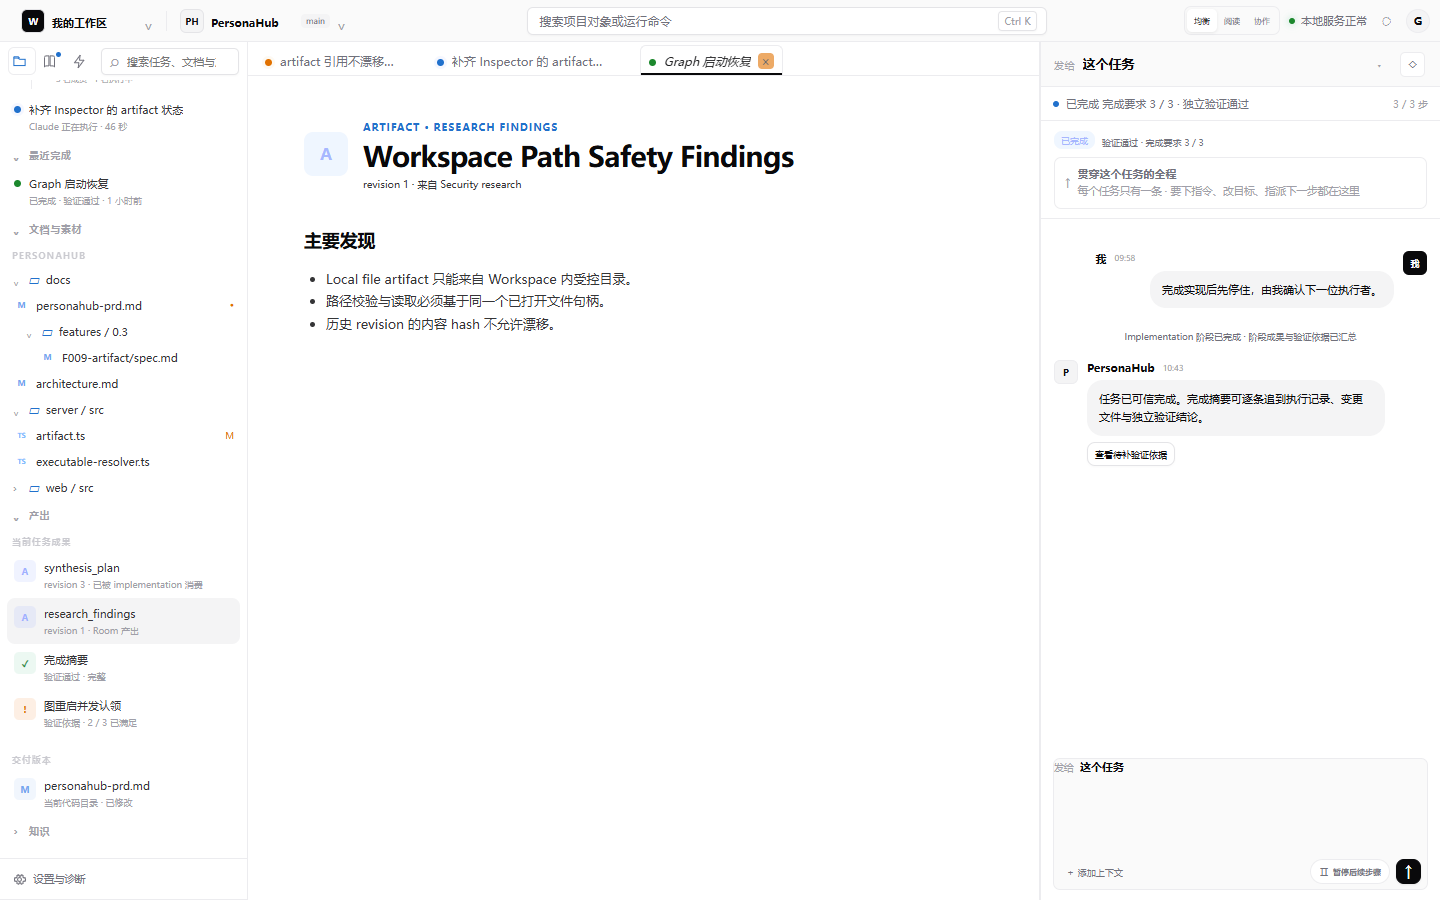
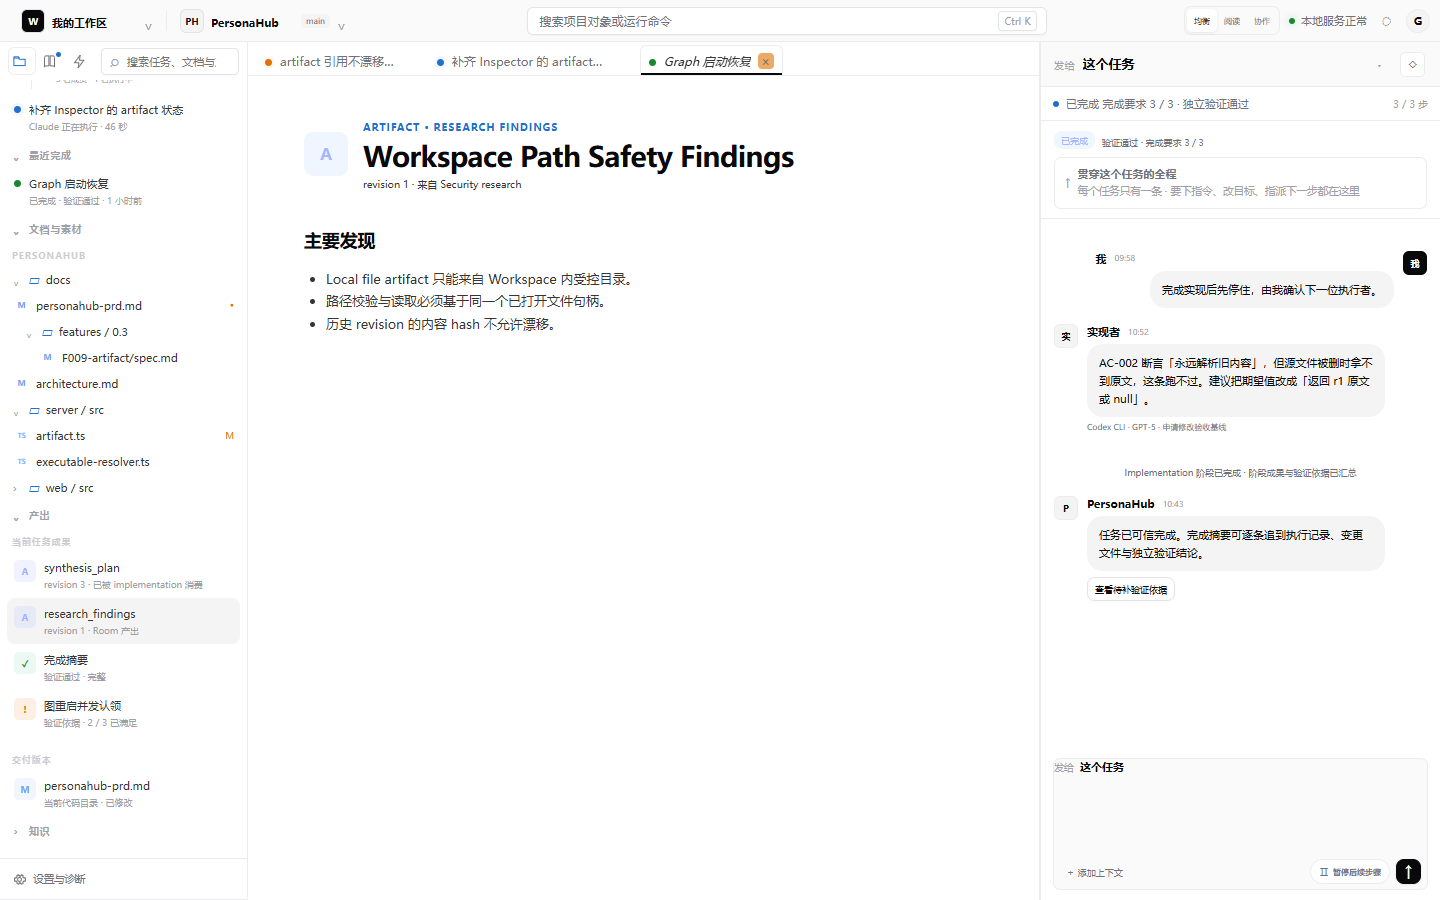
feat(ui): 验收基线决策改为可点的状态迁移，舞台与会话联动
使用者在原型上问：点「批准为 r2」时右侧会话是不是也要发一条给实现者的
消息？如果要，舞台内容和那条消息有什么不同？

根子上「发消息给实现者」这个心智模型就是错的——实现者不在线。ADR 0009
已裁定每次执行都 spawn 全新进程、跑完退出，它收不到任何消息，只会在下次
被调度时拿到已经更新的验收基线。所以批准产生的是状态变更，不是消息。

分工（已实现，有断言守着）：
- 舞台不复述对话，理由只留一行「看原文 →」回链，点击跳到 Dock 并高亮
- 决定在 Dock 里留事件行，不是消息气泡；断言检查批准前后消息条数不变
- 批准改基线会让已有的绿勾失效：AC-002 从 ✓ 降为 ◐，标上
  「r2 · 你批准于 14:32」，结论改为「下面两条证据验的是 r1，r2 的证据
  尚未产生」；三卡同步为「已独立验证 0 / 3」，三数之和仍等于主张总数

最后这条是讨论中的意外收获——改了验收基线，原来的独立验证就不算数了，
因为证据验的是旧断言。原设计没有表达这一点。

拒绝路径同样落地：基线保持 r1，主张标「r1 · 你拒绝了修改」，已有的独立
验证仍然成立。

顺带修了两处 display:grid 盖掉 [hidden] 的老毛病（.baseline-gate /
.claim-state），与之前 .trace-item 是同一个坑。

提案补 §12「决策的两处落点」，记录这条规则与待推广的三处（权限确认、
指派下一步、验证未收敛换策略）。

断言 42 条全绿，无控制台错误；verify:release 全绿。

Changed region(s): [[0.75, 0.3422, 0.9688, 0.5289], [0.75, 0.56, 0.9375, 0.6222], [0.75, 0.6533, 0.8125, 0.6844]]

diff --git a/ui-reference/personahub-draft/personahub-v3.1/index.html b/ui-reference/personahub-draft/personahub-v3.1/index.html
@@ -390,12 +390,12 @@ completed -&gt; archived</code></pre>
                         <div class="bg-old"><span>原</span><span><code>resolve("artifact:art_7f2@1") 返回 r1 原文</code></span></div>
                         <div class="bg-new"><span>改</span><span><code>resolve("artifact:art_7f2@1") 返回 r1 原文 或 null</code></span></div>
                       </div>
-                      <p class="bg-reason"><em class="src-badge agent">Agent 的说法</em>实现者：源文件被删时拿不到原文，断言「永远」跑不过。</p>
+                      <p class="bg-reason">理由由实现者写在会话里，这里不复述 —— 舞台只放结构 <button class="linklike" type="button" data-reveal-request>看原文 →</button></p>
                       <p class="bg-risk"><strong>⚠ 系统提示：这可能把主张改弱。</strong>原来断言「永远」，改后允许返回 null。是不是可接受由你判断，系统只负责把差异和理由摊开。</p>
                       <p class="bg-hold">在你决定之前，验收基线停在 r1；已有证据保持不变，新跑出来的结果照常记录。</p>
                       <div class="bg-actions">
-                        <button type="button" class="primary" data-demo="已批准为 r2；旧主张、旧证据与旧结论仍可追溯，不原地覆盖">批准为 r2</button>
-                        <button type="button" data-demo="已拒绝；验收基线保持 r1，实现需按原断言继续">拒绝并保持 r1</button>
+                        <button type="button" class="primary" data-baseline-decide="approve">批准为 r2</button>
+                        <button type="button" data-baseline-decide="reject">拒绝并保持 r1</button>
                         <button type="button" data-open="evidence-room" data-label="验收基线变更 · AC-002" data-stage-child>看完整差异</button>
                       </div>
                     </div>
@@ -413,19 +413,19 @@ completed -&gt; archived</code></pre>
                   <div class="claim-state" data-claim-filter>
                     <button class="cs-verified" type="button" data-claim-filter-btn="verified">
                       <small>已独立验证</small>
-                      <strong>1 / 3 条主张</strong>
+                      <strong data-count-verified>1 / 3 条主张</strong>
                     </button>
                     <button class="cs-pending" type="button" data-claim-filter-btn="pending">
                       <small>有证据待验证</small>
-                      <strong>1 条</strong>
+                      <strong data-count-pending>1 条</strong>
                     </button>
                     <button class="cs-attention" type="button" data-claim-filter-btn="attention">
                       <small>需要你处理</small>
                       <strong>1 条</strong>
                     </button>
                   </div>
-                  <p class="claim-change-line">
-                    <span>上次查看后：<code>AC-002</code> 的验收基线被申请修改一次，尚未决定</span>
+                  <p class="claim-change-line" data-change-line>
+                    <span data-change-text>上次查看后：<code>AC-002</code> 的验收基线被申请修改一次，尚未决定</span>
                     <button class="linklike" type="button" data-open="evidence-room" data-label="验收基线变更 · AC-002" data-stage-child>看变更 →</button>
                   </p>
 
@@ -461,10 +461,10 @@ completed -&gt; archived</code></pre>
                       </div>
                     </div>
 
-                    <div class="claim-item" data-claim-state="verified">
+                    <div class="claim-item" data-claim-state="verified" data-claim="AC-002">
                       <span class="claim-mark verified" aria-hidden="true">✓</span>
                       <div>
-                        <strong class="claim-title"><code>AC-002</code>旧 revision ref 永远解析旧内容</strong>
+                        <strong class="claim-title"><code>AC-002</code><span data-claim-text>旧 revision ref 永远解析旧内容</span><em class="claim-rev" data-claim-rev hidden></em></strong>
                         <p class="claim-why"><span>凭什么</span><span><em class="src-badge agent">Agent 的说法</em>两条端到端用例走完整读取路径，其中一条由未参与实现的成员在独立上下文里跑</span></p>
                         <div class="evidence-list"><p class="ev-source"><em class="src-badge machine">系统记录</em>下面每一条都可核对到原件</p>
                           <div class="evidence-item">
@@ -476,7 +476,7 @@ completed -&gt; archived</code></pre>
                             <span class="ev-meta"><b>通过</b> 188ms · 验证员执行 · <i>⊘ 冷启动</i></span>
                           </div>
                         </div>
-                        <p class="claim-verdict ok"><span>结论</span>独立验证通过 · 验证者未收到实现者的过程消息与自述</p>
+                        <p class="claim-verdict ok" data-claim-verdict><span>结论</span>独立验证通过 · 验证者未收到实现者的过程消息与自述</p>
                         <p class="claim-collapsed-note">这条主张已收敛，默认可收起；当前展开是为了对照上方的基线变更申请。</p>
                       </div>
                     </div>
@@ -1351,6 +1351,8 @@ completed -&gt; archived</code></pre>
                     <div class="message agent-message"><span class="member-avatar purple">P</span><div><header><strong>PersonaHub</strong><time>10:43</time></header><p>建议下一步交给独立验证员，重点检查反向查询的 scope 泄露与 archived locator 的 TOCTOU 边界。</p><button type="button" data-open="artifact-view">打开 synthesis_plan · r3</button></div></div>
                   </div>
                     </div>
+                    <div class="message agent-message" data-baseline-request><span class="member-avatar blue">实</span><div><header><strong>实现者</strong><time>10:52</time></header><p>AC-002 断言「永远解析旧内容」，但源文件被删时拿不到原文，这条跑不过。建议把期望值改成「返回 r1 原文 或 null」。</p><footer>Codex CLI · GPT-5 · 申请修改验收基线</footer></div></div>
+                    <div class="room-event decision" data-baseline-event hidden><p data-baseline-event-text></p></div>
                     <div class="room-event"><p>Implementation 阶段已完成 · 阶段成果与验证依据已汇总</p></div>
                     <div class="message agent-message"><span class="member-avatar purple">P</span><div><header><strong>PersonaHub</strong><time>10:43</time></header><p data-primary-message>建议下一步交给独立验证员；指派后会自动携带固定版本的阶段成果和现有验证依据。</p><button type="button" data-open="evidence-room">查看待补验证依据</button></div></div>
                   </div>

diff --git a/ui-reference/personahub-draft/personahub-v3.1/assets/app.js b/ui-reference/personahub-draft/personahub-v3.1/assets/app.js
@@ -280,6 +280,72 @@
 
   // Dock 只有一条流。Room 不再是阅读入口，只是流里的一段可折叠内容：
   // 它是组织单位（谁一起干、交付什么），那些结构信息在舞台的成员泳道上。
+  // ── 验收基线决策：舞台与 Dock 的分工 ──────────────────────
+  //
+  // 舞台放「待决状态 + 决策界面」，Dock 放「对话原文」。
+  // 决定本身产生的是**状态变更**，不是一条你发给实现者的消息——
+  // 实现者不在线（ADR 0009：每次执行都是全新进程），它收不到消息，
+  // 只会在下次被调度时拿到已经更新的验收基线。
+  function revealBaselineRequest() {
+    const msg = $("[data-baseline-request]");
+    if (!msg) return;
+    setPanel("primary");
+    msg.scrollIntoView({ block: "center", behavior: "smooth" });
+    msg.classList.add("flash");
+    window.setTimeout(() => msg.classList.remove("flash"), 1600);
+  }
+
+  function decideBaseline(approved) {
+    const gate = $("[data-baseline-gate]");
+    const claim = $('[data-claim="AC-002"]');
+    if (!gate || !claim) return;
+
+    gate.hidden = true;
+
+    if (approved) {
+      // 关键一条：改了基线，原来的绿勾就不成立了——
+      // 已有证据验的是旧断言 r1，r2 的证据还没产生。
+      claim.dataset.claimState = "pending";
+      const mark = $(".claim-mark", claim);
+      mark.className = "claim-mark pending";
+      mark.textContent = "◐";
+      $("[data-claim-text]", claim).textContent = "旧 revision ref 解析旧内容，或在源文件缺失时返回 null";
+      const rev = $("[data-claim-rev]", claim);
+      rev.hidden = false;
+      rev.textContent = "r2 · 你批准于 14:32";
+      const verdict = $("[data-claim-verdict]", claim);
+      verdict.className = "claim-verdict pending";
+      verdict.innerHTML =
+        "<span>结论</span>下面两条证据验的是 <b>r1</b>，基线已改为 r2 —— r2 的证据尚未产生，独立验证需要重跑";
+
+      setText("[data-count-verified]", "0 / 3 条主张");
+      setText("[data-count-pending]", "2 条");
+      $("[data-change-text]").innerHTML = "你已批准 <code>AC-002</code> 的验收基线 → <b>r2</b> · 14:32 · 旧主张与旧证据仍可追溯";
+      showBaselineEvent("验收基线 AC-002 → r2（你批准）· 已有证据仍指向 r1，需重新验证");
+      showToast("已批准为 r2：旧证据验的是 r1，这条主张退回「有证据待验证」");
+    } else {
+      const rev = $("[data-claim-rev]", claim);
+      rev.hidden = false;
+      rev.textContent = "r1 · 你拒绝了修改";
+      $("[data-change-text]").innerHTML = "你已拒绝 <code>AC-002</code> 的基线修改 · 14:32 · 实现需按原断言继续";
+      showBaselineEvent("验收基线 AC-002 保持 r1（你拒绝）· 实现需按原断言继续");
+      showToast("已拒绝：验收基线保持 r1，已有的独立验证仍然成立");
+    }
+  }
+
+  function showBaselineEvent(text) {
+    const row = $("[data-baseline-event]");
+    if (!row) return;
+    row.hidden = false;
+    $("[data-baseline-event-text]", row).textContent = text;
+    row.scrollIntoView({ block: "center", behavior: "smooth" });
+  }
+
+  function setText(selector, value) {
+    const el = $(selector);
+    if (el) el.textContent = value;
+  }
+
   // Dock 只有一个输入框在场——取当前可见面板里的那个
   function activeComposer() {
     return $('[data-room-panel].active textarea');
@@ -539,6 +605,17 @@
         if (twisty) twisty.textContent = collapsed ? "›" : "⌄";
         target.setAttribute("aria-expanded", String(!collapsed));
       }
+      return;
+    }
+
+    // 舞台不复述对话，只留一个回链到 Dock 的原文
+    if (target.hasAttribute("data-reveal-request")) {
+      revealBaselineRequest();
+      return;
+    }
+
+    if (target.dataset.baselineDecide) {
+      decideBaseline(target.dataset.baselineDecide === "approve");
       return;
     }
 

diff --git a/ui-reference/personahub-draft/personahub-v3.1/assets/v3-layout.css b/ui-reference/personahub-draft/personahub-v3.1/assets/v3-layout.css
@@ -2395,3 +2395,38 @@
 /* 论证是成员写的，证据是机器记录——两边都要标信源（design.md §4.2.4）*/
 .evidence-list > .ev-source { margin: 0 0 4px; color: var(--faint); font-size: 9px; }
 .claim-why .src-badge { vertical-align: 0; }
+
+/* 20. 验收基线决策：舞台给结构，Dock 给原文，决定产生事件行而不是消息 */
+.claim-rev {
+  margin-left: 8px;
+  padding: 1px 6px;
+  border: 1px solid color-mix(in oklch, var(--yellow) 45%, transparent);
+  border-radius: 4px;
+  background: color-mix(in oklch, var(--yellow) 10%, transparent);
+  color: var(--yellow);
+  font-size: 9px;
+  font-style: normal;
+  font-weight: 600;
+  vertical-align: 1px;
+}
+
+.claim-verdict b { color: var(--text); font-weight: 650; }
+
+/* Dock 里的决定：事件行，不是消息气泡——它不是你说的话，是状态变更 */
+.room-event.decision > p {
+  border-color: color-mix(in oklch, var(--accent) 45%, transparent);
+  background: color-mix(in oklch, var(--accent) 8%, transparent);
+  color: var(--text);
+  font-weight: 500;
+}
+
+/* 从舞台跳过来时闪一下，指明「原文在这」*/
+.message.flash > div { animation: v3-flash 1.6s ease-out 1; }
+@keyframes v3-flash {
+  0%, 30% { box-shadow: 0 0 0 2px var(--accent); }
+  100% { box-shadow: 0 0 0 2px transparent; }
+}
+@media (prefers-reduced-motion: reduce) { .message.flash > div { animation: none; } }
+/* display:grid 会盖掉 [hidden] 的 display:none，凡是靠 hidden 切换的都要复位 */
+.baseline-gate[hidden] { display: none; }
+.claim-state[hidden] { display: none; }

diff --git a/ui-reference/personahub-draft/personahub-v3.1/docs/v3.2-claim-evidence-proposal.md b/ui-reference/personahub-draft/personahub-v3.1/docs/v3.2-claim-evidence-proposal.md
@@ -359,7 +359,52 @@ Graph 启动恢复
 
 ---
 
-## 12. 不在本提案范围内
+## 12. 决策的两处落点：舞台给结构，Dock 给原文
+
+使用者在原型上发现的问题：点「批准为 r2」时，右侧会话里是不是也要发一条给实现者的消息？如果要，那舞台上的内容和这条消息有什么不同？
+
+### 12.1 「发消息给实现者」这个心智模型是错的
+
+实现者不在线。ADR 0009 已裁定：每次执行都 spawn 一个全新 CLI 进程，跑完退出，没有常驻进程。**它收不到任何消息**——下次被调度时，上下文里的验收基线已经是 r2。
+
+所以批准产生的不是消息，是**状态变更**。三条理由：
+
+1. 你一个字都没写，凭什么算你说的话
+2. 消息可以编辑撤回，状态变更不能
+3. 消息是给人看的，状态变更是系统要执行的
+
+### 12.2 分工
+
+| | 舞台的基线变更条 | Dock 里实现者那条消息 |
+| --- | --- | --- |
+| 是什么 | 待决状态 + 决策界面 | 对话原文 |
+| 内容 | 主张、原→改差异、风险提示、三个按钮 | 实现者用自然语言写的理由 |
+| 谁产生 | 系统从对话里提取的结构 | 成员写的文字 |
+| 批准后 | 消失（状态解除） | 留着（历史不可改） |
+
+三条规则，已在原型上实现并有断言守着：
+
+1. **舞台不复述对话**，理由只留一行「看原文 →」回链，点击跳到 Dock 并高亮那条消息
+2. **决定在 Dock 里留事件行，不是消息气泡**——断言检查批准前后消息条数不变
+3. **批准改基线会让已有的绿勾失效**：AC-002 从 `✓` 降为 `◐`，标上 `r2 · 你批准于 14:32`，结论改为「下面两条证据验的是 r1，r2 的证据尚未产生」；三卡同步为 `已独立验证 0 / 3`，且三数之和仍等于主张总数
+
+第 3 条是这次讨论的意外收获：**改了验收基线，原来的独立验证就不算数了**，因为证据验的是旧断言。原设计没有表达这一点。
+
+### 12.3 同一规则待推广的三处
+
+| 场景 | 舞台该有 | Dock 该有 |
+| --- | --- | --- |
+| 权限确认（git push） | 批准范围 + 两个按钮 | 请求原文 |
+| 指派下一步 | 建议成员 + 理由 | 指令原文（可改后发送） |
+| 验证未收敛换策略 | 两轮差异 + 三个动作 | 验证员的结论原文 |
+
+**通用规则**：凡是需要你做决定的事，舞台给结构化的决策界面，Dock 只留自然语言原文和后续讨论；决定本身产生状态变更，不产生消息。
+
+这三处目前仍是两边各有一份，本轮未改。
+
+---
+
+## 13. 不在本提案范围内
 
 - 轨迹页的形态（已在 V3.2 落地，本提案只往它挪入「实现/验证过程」）
 - Dock 的结构（已收敛为一条流 + 一个输入框，不动）
@@ -368,7 +413,7 @@ Graph 启动恢复
 
 ---
 
-## 13. 下一步
+## 14. 下一步
 
 1. 使用者确认第 9 节裁决建议，或只标出要推翻的项
 2. 按 §3、§5、§10 改四个关键状态原型，至少用 1440×900 与 1280×800 检查首屏
